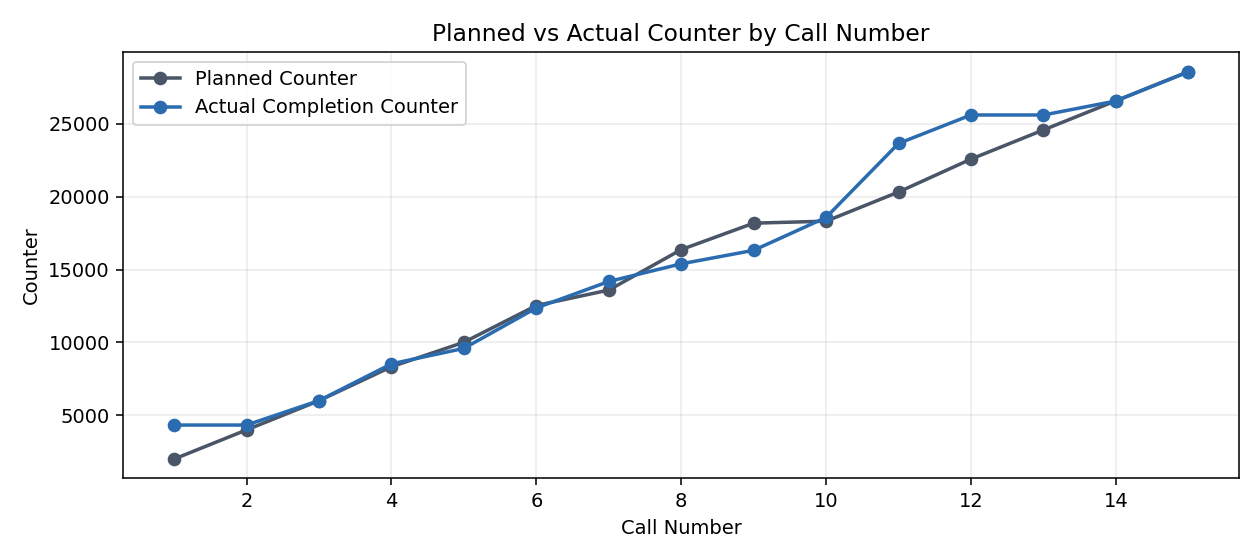
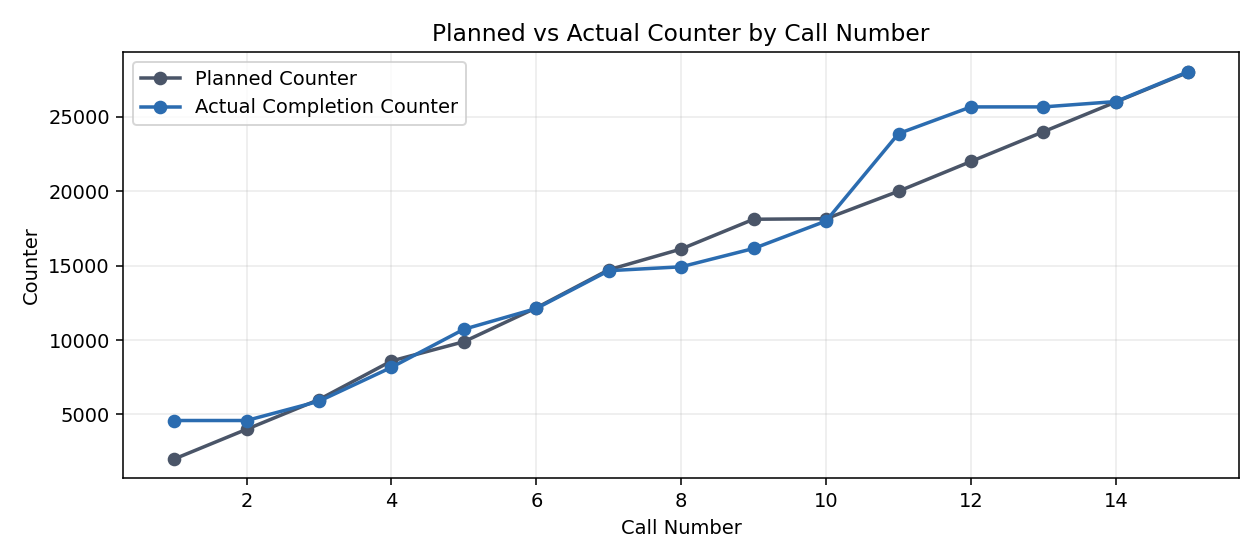
docs: sync documentation with current codebase and test fixes

diff --git a/reports/last_run_report.html b/reports/last_run_report.html
@@ -83,7 +83,7 @@
   <div class="wrap">
     <div class="header">
       <h1>Last Run Dashboard</h1>
-      <div class="meta">Source: work_order_sim_0.csv | Generated: 2026-02-16T15:00:10</div>
+      <div class="meta">Source: work_order_sim_0.csv | Generated: 2026-02-16T15:13:35</div>
     </div>
 
     <div class="grid">
@@ -91,9 +91,9 @@
       <div class="card"><div class="label">Called Work Orders</div><div class="value">18</div></div>
       <div class="card"><div class="label">Completed Work Orders</div><div class="value">15</div></div>
       <div class="card"><div class="label">Completion Rate</div><div class="value">68.2%</div></div>
-      <div class="card"><div class="label">Avg Planned Counter</div><div class="value">15,461.35</div></div>
-      <div class="card"><div class="label">Avg Actual Counter</div><div class="value">15,971.09</div></div>
-      <div class="card"><div class="label">Counter Variance (A-P)</div><div class="value">509.74</div></div>
+      <div class="card"><div class="label">Avg Planned Counter</div><div class="value">15,318.35</div></div>
+      <div class="card"><div class="label">Avg Actual Counter</div><div class="value">15,941.05</div></div>
+      <div class="card"><div class="label">Counter Variance (A-P)</div><div class="value">622.71</div></div>
     </div>
 
     <div class="section">

diff --git a/tests/test_smoke.py b/tests/test_smoke.py
@@ -1,7 +1,7 @@
 import unittest
 
-from simulation.config_loader import generate_parameter_combinations
-from simulation.montecarlo import build_counter_data
+from src.simulation.config_loader import generate_parameter_combinations
+from src.simulation.montecarlo import build_counter_data
 
 
 class SmokeTests(unittest.TestCase):

diff --git a/docs/branch-documentation.md b/docs/branch-documentation.md
@@ -2,68 +2,61 @@
 
 ## Branch Name
 
-`chore/project-standards-docs-foundation`
+`bug/last_report`
 
 ## Branch Goal
 
-Create and align the project foundation across documentation, standards, and code structure so contributors can work with consistent rules and a stable `src`-based Python layout.
+Fix the failing automated test discovery run by aligning stale import paths in `tests/test_smoke.py` with the current `src` package layout.
 
 ## Problem Statement
 
-The project started without a complete standards baseline, structured docs, or a clear branch documentation process. Core simulation code also needed alignment with the documented standards (reduced side effects, safer parameter handling, and test coverage). In addition, environment/run workflows were not standardized around `uv`, and directory layout needed consolidation under `src/`.
+`uv run python -m unittest discover -s tests -v` was failing because `tests/test_smoke.py` imported from `simulation.*`, while the project code now lives under `src.simulation.*`. This caused `ModuleNotFoundError` and blocked a clean test pass for the branch.
 
 ## Scope
 
 ### In Scope
 
-- Create project documentation in `docs/` (overview, scope, architecture, runbook, known issues).
-- Create and apply project standards in `standards/`.
-- Restructure code to `src/simulation/` and add `src/utils/` for reusable helpers.
-- Fix identified simulation defects and add regression tests.
-- Standardize environment and run workflow with `uv`.
+- Update `tests/test_smoke.py` imports to use `src.simulation.*`.
+- Re-run full unittest discovery and confirm all tests pass.
+- Update branch documentation to reflect current branch purpose and validation.
 
 ### Out of Scope
 
-- New simulation feature development beyond defect fixes/refactor.
-- API/service layer implementation.
-- Production deployment and CI/CD automation.
+- Refactor simulation logic.
+- Modify report/dashboard behavior.
+- Introduce new features.
 
 ## Acceptance Criteria
 
-- [x] Standards defined (`project`, `git`, `code`).
-- [x] Standards reflected in code structure and implementation updates.
-- [x] Project documentation created and indexed.
+- [x] Test imports aligned with current package structure.
+- [x] `uv run python -m unittest discover -s tests -v` passes with no errors.
+- [x] Branch documentation updated to reflect actual work completed.
 
 ## Technical Plan
 
-1. Create baseline docs and standards in dedicated directories.
-2. Refactor simulation code to address defects and reduce runtime side effects.
-3. Restructure package layout to `src/` and introduce `src/utils/` for shared helpers.
-4. Add tests and validate runtime behavior.
-5. Adopt and verify `uv` workflow; update standards/runbook accordingly.
+1. Inspect failing test module imports.
+2. Replace deprecated `simulation.*` imports with `src.simulation.*`.
+3. Run full test suite and verify green.
 
 ## Risks and Mitigations
 
-- Risk: Directory/layout refactors can break imports and runtime entrypoints.
-  - Mitigation: Update imports immediately and validate with tests plus `main` execution.
-- Risk: Standards/docs drift from implementation.
-  - Mitigation: Update docs in the same branch and validate against actual commands run.
+- Risk: Additional stale imports may exist in other test files.
+  - Mitigation: Use full unittest discovery after fix to detect any remaining path errors.
 
 ## Validation Plan
 
 - Command: `uv run python -m unittest discover -s tests -v`
-- Command: `uv run python -c "import main; main.main(plot=False)"`
-- Expected result: tests pass and the program runs without runtime errors in non-plot mode.
+- Expected result: all tests pass and no import errors occur.
 
 ## Documentation Updates
 
-- [x] Update runbook/docs for behavior changes.
-- [x] Update standards for new conventions (`uv`, `src/utils`, branch template).
-- [x] Update known issues status where fixes were completed.
+- [x] Update branch documentation for this bug-fix branch.
+- [ ] No standards changes required.
+- [ ] No runbook/architecture changes required.
 
 ## PR Notes
 
 - Linked issue/task: N/A
 - Review focus areas:
-  - Simulation correctness and returned multi-simulation output behavior.
-  - Package layout/import updates (`src/simulation`, `src/utils`) and `uv` workflow alignment.
+  - `tests/test_smoke.py` import-path correctness.
+  - Test-suite pass confirmation (`5 passed`).

diff --git a/reports/last_run_report.md b/reports/last_run_report.md
@@ -1,6 +1,6 @@
 # Last Run Report
 
-- Generated: `2026-02-16T15:00:10`
+- Generated: `2026-02-16T15:13:35`
 - Source file: `work_order_sim_0.csv`
 
 ## Run Summary
@@ -10,35 +10,35 @@
 - Completed work orders: **15**
 - Completion rate: **68.2%**
 - First call day: **100**
-- Last call day: **1,978**
+- Last call day: **1,950**
 - First completion day: **320**
-- Last completion day: **1,944**
+- Last completion day: **1,919**
 - Average lead time (days): **220.00**
-- Average planned counter: **15,461.35**
-- Average completion counter: **15,971.09**
-- Average counter variance (actual - planned): **509.74**
+- Average planned counter: **15,318.35**
+- Average completion counter: **15,941.05**
+- Average counter variance (actual - planned): **622.71**
 
 ## Per Item Breakdown
 
 | Item | Planned | Called | Completed | Completion Rate | Avg Completion Counter |
 |---|---:|---:|---:|---:|---:|
-| overhaul | 3 | 2 | 2 | 66.7% | 17,063.58 |
-| replace couplings | 17 | 14 | 12 | 70.6% | 15,837.44 |
-| replace pump | 2 | 2 | 1 | 50.0% | 15,389.95 |
+| overhaul | 3 | 2 | 2 | 66.7% | 16,918.06 |
+| replace couplings | 17 | 14 | 12 | 70.6% | 15,863.07 |
+| replace pump | 2 | 2 | 1 | 50.0% | 14,922.84 |
 
 ## First 12 Timeline Rows
 
 | Call # | Item | Call Day | Planned Day | Completion Day | Completion Counter |
 |---:|---|---:|---:|---:|---:|
-| 1 | replace couplings | 100 | 320 | 320 | 4,331.51 |
-| 2 | replace couplings | 100 | 320 | 320 | 4,331.51 |
-| 3 | replace couplings | 227 | 447 | 447 | 6,009.12 |
-| 4 | overhaul | 400 | 620 | 620 | 8,528.94 |
-| 5 | replace couplings | 487 | 707 | 707 | 9,590.05 |
-| 6 | replace couplings | 679 | 899 | 899 | 12,364.22 |
-| 7 | replace couplings | 800 | 1,020 | 1,020 | 14,178.16 |
-| 8 | replace pump | 966 | 1,186 | 1,186 | 15,389.95 |
-| 9 | replace couplings | 1,078 | 1,298 | 1,298 | 16,315.10 |
-| 10 | replace couplings | 1,306 | 1,526 | 1,526 | 18,572.01 |
-| 11 | replace couplings | 1,518 | 1,738 | 1,738 | 23,646.36 |
-| 12 | overhaul | 1,600 | 1,820 | 1,820 | 25,598.21 |
+| 1 | replace couplings | 100 | 320 | 320 | 4,590.20 |
+| 2 | replace couplings | 100 | 320 | 320 | 4,590.20 |
+| 3 | replace couplings | 187 | 407 | 407 | 5,886.40 |
+| 4 | overhaul | 373 | 593 | 593 | 8,163.98 |
+| 5 | replace couplings | 540 | 760 | 760 | 10,723.70 |
+| 6 | replace couplings | 648 | 868 | 868 | 12,120.34 |
+| 7 | replace couplings | 861 | 1,081 | 1,081 | 14,662.58 |
+| 8 | replace pump | 900 | 1,120 | 1,120 | 14,922.84 |
+| 9 | replace couplings | 1,050 | 1,270 | 1,270 | 16,154.67 |
+| 10 | replace couplings | 1,277 | 1,497 | 1,497 | 18,003.11 |
+| 11 | replace couplings | 1,525 | 1,745 | 1,745 | 23,878.42 |
+| 12 | overhaul | 1,600 | 1,820 | 1,820 | 25,672.13 |

diff --git a/docs/runbook.md b/docs/runbook.md
@@ -27,6 +27,12 @@ From project root:
 uv run python main.py
 ```
 
+Generate last-run reports:
+
+```bash
+uv run python last_run_report.py
+```
+
 ## Current Runtime Behavior
 
 - Loads `config.json`
@@ -40,13 +46,17 @@ uv run python main.py
 
 ## Outputs
 
-- Console logs from simulation loop
 - CSV files:
   - `work_order_sim_0.csv` (and additional IDs when multiple simulations are run)
+  - Note: this default location comes from current `main.py` usage of `run_simulation(...)`.
+- Report files:
+  - `reports/last_run_report.md`
+  - `reports/last_run_report.html`
+  - `reports/last_run_assets/*.png`
 - Matplotlib window when plotting enabled
 
 ## Configuration Notes
 
 - `daily_utilisations` phases are applied by increasing `after_day`.
 - List values in `parameters` are expanded into combinations.
-- Long simulations may run slowly due to current debug sleeps and frequent writes.
+- To change CSV output location, pass `output_dir` to `run_simulation(...)`.

diff --git a/docs/architecture.md b/docs/architecture.md
@@ -3,6 +3,7 @@
 ## Repository Structure
 
 - `main.py`: Program entrypoint and plotting workflow.
+- `last_run_report.py`: Builds last-run markdown and HTML reports with visuals.
 - `config.json`: Runtime configuration.
 - `src/simulation/config_loader.py`: Config loading and parameter combination generation.
 - `src/simulation/utilisation.py`: Daily utilisation generator by phase/distribution.
@@ -24,8 +25,9 @@
    - iterates day-by-day for each simulation
    - recalculates calls and annual estimates on cadence
    - marks call/completion transitions
-   - writes simulation CSV output
+   - writes simulation CSV output (default: project root unless `output_dir` is provided)
 5. `main.py` filters completed rows and plots selected columns.
+6. `last_run_report.py` reads the latest run CSV (prefers `data/`, then root), and writes reports into `reports/`.
 
 ## Core Data Entities
 

diff --git a/docs/project-overview.md b/docs/project-overview.md
@@ -25,8 +25,12 @@ This project simulates maintenance planning behavior against a synthetic utilisa
 ## Current Deliverables
 
 - In-memory pandas DataFrames for utilisation and work-order state.
-- CSV exports per simulation in the project root:
+- CSV exports per simulation (default path from current `main.py` run):
   - `work_order_sim_<simulation_id>.csv`
+- Last-run reporting artifacts generated by `last_run_report.py`:
+  - `reports/last_run_report.md`
+  - `reports/last_run_report.html`
+  - `reports/last_run_assets/*.png`
 - Optional matplotlib plot for call progression.
 
 ## Intended Audience

diff --git a/docs/known-issues.md b/docs/known-issues.md
@@ -15,6 +15,7 @@ This file tracks observed defects and technical risks in the current codebase.
 
 - Simulation still relies on row-wise DataFrame `.apply` for recalculation logic and may be slow at very large scales.
 - CSV export is enabled by default in `run_simulation`; callers should disable it for pure in-memory runs.
+- Current `main.py` call path writes run CSVs to project root unless `output_dir` is explicitly set.
 
 ## Test Coverage Gaps
 

diff --git a/docs/README.md b/docs/README.md
@@ -10,6 +10,7 @@ This folder contains project documentation for the AHP maintenance planning simu
 - `runbook.md`: How to run the project and expected outputs.
 - `known-issues.md`: Current technical risks and defects to address.
 - `branch-documentation-template.md`: Template for documenting branch intent and delivery plan.
+- `branch-documentation.md`: Active branch documentation record.
 
 ## Suggested Reading Order
 
